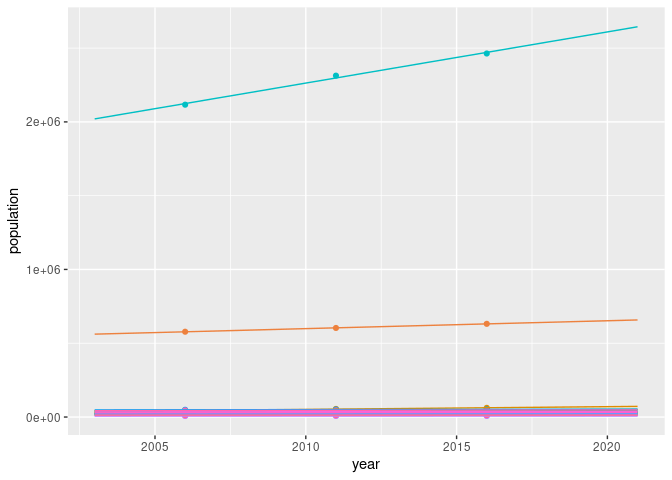
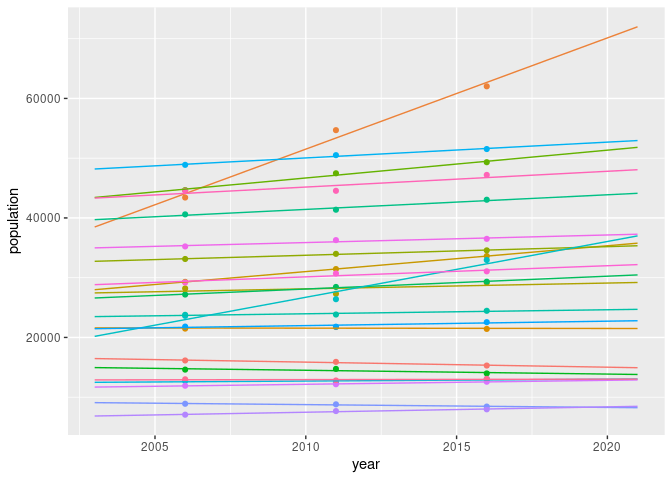
Modify features, tidy code, check lm models

diff --git a/preprocess_data.md b/preprocess_data.md
@@ -50,7 +50,7 @@ Modecount <- function(vec) {
 ## Load and process the crime dataset
 
 ``` r
-crime <- read_csv(CRIMEDATA)
+crime <- read_csv(CRIMEDATA, col_types = "fiiiiiccnn")
 ```
 
 In the geoJSON map data, Musqueam territory is geographically inside the
@@ -61,19 +61,25 @@ into D-S incidents. Also, give Downtown its intuitive name.
 
 ``` r
 crime <- crime %>%
-  mutate(NEIGHBOURHOOD =
-           replace(NEIGHBOURHOOD,
-                   which(NEIGHBOURHOOD == 'Musqueam'),
-                   "Dunbar-Southlands"),
-         NEIGHBOURHOOD =
-           replace(NEIGHBOURHOOD,
-                   which(NEIGHBOURHOOD == "Central Business District"),
-                   "Downtown")) %>%
-  select(TYPE, YEAR, MONTH, DAY, HOUR, MINUTE, HUNDRED_BLOCK, NEIGHBOURHOOD, X, Y) %>%
   rename_with(tolower) %>%
-  rename(crime_type = type) %>%
   # We have no map data for Stanley Park
-  filter(neighbourhood != 'Stanley Park')
+  # filter(neighbourhood != 'Stanley Park') %>%
+  select(type, year, month, day, hour, minute, hundred_block, neighbourhood, x, y) %>%
+  mutate(neighbourhood =
+           replace(neighbourhood,
+                   which(neighbourhood == 'Musqueam'),
+                   "Dunbar-Southlands"),
+         neighbourhood =
+           replace(neighbourhood,
+                   which(neighbourhood == "Central Business District"),
+                   "Downtown"),
+         dt = as.POSIXct(paste(paste(year, month, day, sep = '-'), " ",
+                               paste(hour, minute, sep = ":"))),
+         wday = wday(dt, label = TRUE, week_start = 1),
+         month = month(dt, label = TRUE),
+         neighbourhood = as_factor(neighbourhood),
+         neighbourhood = fct_relevel(neighbourhood,
+                                     ~ levels(neighbourhood)[order(levels(neighbourhood))]))
 ```
 
 ### Split the dataset
@@ -86,29 +92,25 @@ off to be analyzed separately.
 
 ``` r
 no_loc_crime <- crime %>%
-  filter(crime_type == "Homicide" | crime_type == "Offence Against a Person") %>%
-  select(-c(hour, minute, x, y))  # all zero, all useless features
+  filter(type == "Homicide" | type == "Offence Against a Person") %>%
+  select(-c(hour, minute, x, y, hundred_block))    # all zero, all useless features
 
-# Create crime dataset for the other crimes
+# Create crime dataset for the other crimes. Remove some bad data too (< 100 rows)
 crime <- crime %>% filter(x != 0, y != 0, !is.na(x), !is.na(y),
                           neighbourhood != "",
-                          crime_type != "Homicide",
-                          crime_type != "Offence Against a Person")
+                          type != "Homicide",
+                          type != "Offence Against a Person")
 ```
 
 Group the 9 remaining crimes into 4 general categories to simplify
 
 ``` r
-old <- sort(unique(crime$crime_type))
+old <- sort(unique(crime$type))
 new <- c('Break and Enter', 'Break and Enter', 'Mischief',
          'Theft', 'Theft', 'Theft', 'Theft',
          'Vehicular', 'Vehicular')
 crime <- crime %>%
-  mutate(
-    general_crime_type = factor(crime_type, old, new),
-    dt = as.POSIXct(paste(paste(year, month, day, sep = '-'), " ",
-                          paste(hour, minute, sep = ":"))),
-    weekday = wday(dt, label = TRUE, week_start = 1))
+  mutate(general_type = factor(type, old, new))
 
 # create unique IDs.
 crime <- tibble::rowid_to_column(crime, "id")
@@ -214,7 +216,11 @@ census2006 <- read_csv("data/CensusLocalAreaProfiles2006.csv", skip = 4,
                    neighbourhood == "Vancouver CMA  (Metro Vancouver)", "Metro Vancouver")) %>%
   select(neighbourhood, population, year)
 
+`%nin%` = Negate(`%in%`) # create not-in operator for next chunk
+
 census <- rbind(census2016, census2011, census2006) %>%
+  # These are city level, not neighbourhood level
+  filter(neighbourhood %nin% c("City of Vancouver", "Metro Vancouver")) %>%
   mutate(population = as.numeric(population),
          prediction = FALSE)  # Later we'll mark imputations as predictions
 
@@ -227,19 +233,47 @@ create population estimates for all intervening years by imputing values
 using a simple linear model. Note that we’ll be *extrapolating* for
 2003-2005 and 2017-2021 so these figures should be seen with a more
 doubtful eye. This will have to do until the 2021 census results are
-released. We use a linear model with interactions: since population
-growth changes over years and neighbourhood growth is different,
-population will depend on the combination of year and neighbourhood.
+released. We use a linear model with interactions: two neighbourhoods
+(Downtown in particular) have notably different population growth over
+time. For fun we’ll test a parallel slopes model too.
 
 ``` r
-model <- lm(population ~ year * neighbourhood, data = census)
+model_interactions <- lm(population ~ year * neighbourhood, data = census)
+model_parallel_slopes <- lm(population ~ year + neighbourhood, data = census)
+```
+
+Even though we only have three points per neighbourhood, let’s calculate
+the *R*<sup>2</sup> for both models
+
+``` r
+moderndive::get_regression_summaries(model_interactions)
+```
+
+    ## # A tibble: 1 × 9
+    ##   r_squared adj_r_squared     mse  rmse sigma statistic p_value    df  nobs
+    ##       <dbl>         <dbl>   <dbl> <dbl> <dbl>     <dbl>   <dbl> <dbl> <dbl>
+    ## 1     0.999         0.998 131970.  363.  629.      726.       0    43    66
+
+``` r
+moderndive::get_regression_summaries(model_parallel_slopes)
+```
+
+    ## # A tibble: 1 × 9
+    ##   r_squared adj_r_squared      mse  rmse sigma statistic p_value    df  nobs
+    ##       <dbl>         <dbl>    <dbl> <dbl> <dbl>     <dbl>   <dbl> <dbl> <dbl>
+    ## 1     0.984         0.976 3006396. 1734. 2148.      120.       0    22    66
+
+As expected, the interactions model is superior. Use it to make
+predictions.
+
+``` r
 predict_years <- c(2003:2005, 2007:2010, 2012:2015, 2017:2021)
 predict_neighbourhoods <- unique(census$neighbourhood)
 # Each year and neighbourhood gets a prediction: get all combinations
 x <- expand.grid(predict_neighbourhoods, predict_years) %>%
   rename(neighbourhood = Var1, year = Var2)
 predicted_populations <- x %>%
-  mutate(population = predict(model, x),
+  mutate(population = predict(model_interactions, x),
          prediction = TRUE)
 ```
 
@@ -258,22 +292,8 @@ census %>%
 
 ![](preprocess_data_files/figure-gfm/sanity%20check%20plots-1.png)<!-- -->
 
-``` r
-# get a closer look at the smaller neighbourhoods
-tmp <- predicted_populations %>%
-  filter(neighbourhood != "Metro Vancouver", neighbourhood != "City of Vancouver")
-census %>%
-  filter(neighbourhood != "Metro Vancouver", neighbourhood != "City of Vancouver") %>%
-  ggplot(aes(year, population, group = neighbourhood, color = neighbourhood)) +
-  geom_point() +
-  geom_line(data = tmp,
-             mapping = aes(year, population, color = neighbourhood))+
-  theme(legend.position = "none")
-```
-
-![](preprocess_data_files/figure-gfm/sanity%20check%20plots-2.png)<!-- -->
-
-Looks fine. Bind the population predictions to the census populations.
+Looks fine. Two neighbourhoods stand out visually with different growth.
+Bind the population predictions to the census populations.
 
 ``` r
 census_with_predictions <-
